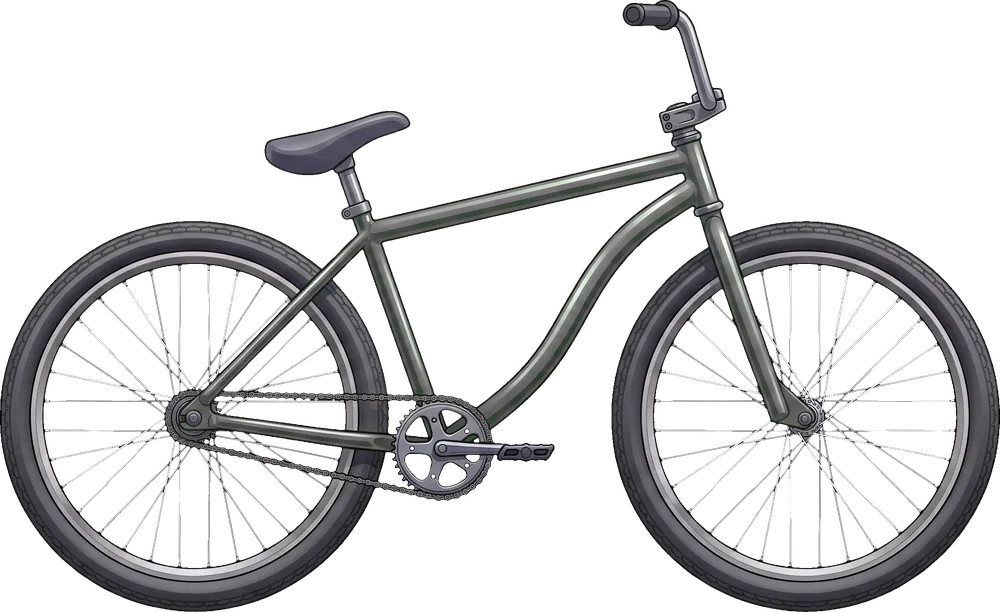
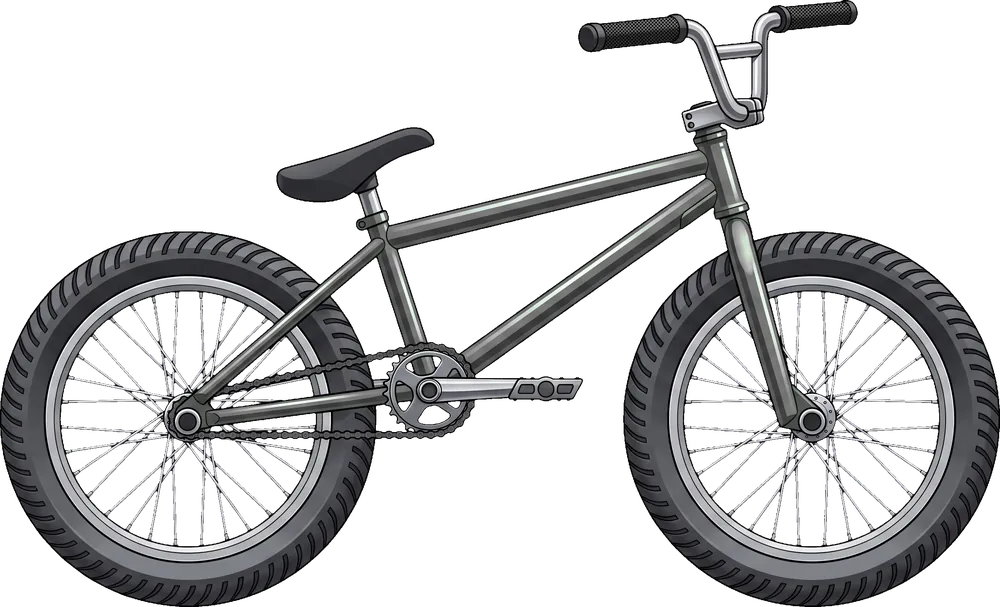
Publicacion automatica - version 20/08 14:08

diff --git a/index.html b/index.html
@@ -5,7 +5,7 @@
 <meta name="viewport" content="width=device-width, initial-scale=1.0, maximum-scale=1.0, user-scalable=no, viewport-fit=cover">
 <meta name="apple-mobile-web-app-capable" content="yes">
 <meta name="apple-mobile-web-app-status-bar-style" content="black-translucent">
-<meta name="apuntes-version" content="20/08 13:35">
+<meta name="apuntes-version" content="20/08 14:08">
 <link rel="manifest" href="manifest.json">
 <link rel="apple-touch-icon" href="icon-180.png">
 <meta name="theme-color" content="#f4ecd8">
@@ -1935,6 +1935,23 @@ body {
 .gar-mini.bloqueado { opacity: .5; }
 .gar-mini svg { width: 100%; height: 34px; }
 .gar-mini .t { display: block; font-size: 10px; font-weight: 700; margin-top: 3px; line-height: 1.15; }
+/* solapas de "Tu colección" */
+.col-solapas { display: flex; gap: 6px; margin: 6px 0 10px; }
+.col-solapa { flex: 1; padding: 9px 6px; border-radius: 11px; cursor: pointer;
+  border: 1.5px solid rgba(128,128,128,.3); background: rgba(255,255,255,.3);
+  font-family: inherit; color: inherit; font-size: 13px; font-weight: 700; }
+[data-theme="dark"] .col-solapa { background: rgba(255,255,255,.05); }
+.col-solapa.activa { border-color: #d4a017; background: rgba(212,160,23,.16); }
+/* franja de "Tu colección" en Actividades: aparte de las tarjetas de estudiar */
+.dash-coleccion { display: flex; align-items: center; gap: 10px; width: 100%;
+  margin: 14px 0 4px; padding: 12px 14px; border-radius: 14px; cursor: pointer;
+  font-family: inherit; color: inherit; text-align: left;
+  border: 1.5px solid rgba(212,160,23,.55); background: rgba(212,160,23,.12); }
+.dash-coleccion .ico { font-size: 24px; line-height: 0; display: flex; align-items: center; }
+.dash-coleccion .txt { flex: 1; }
+.dash-coleccion .name { display: block; font-size: 15px; font-weight: 800; }
+.dash-coleccion .sub { display: block; font-size: 12px; opacity: .72; }
+.dash-coleccion .monedas { font-size: 15px; font-weight: 800; white-space: nowrap; }
 .gar-vacio { text-align: center; padding: 30px 18px; }
 .gar-vacio .grande { font-size: 44px; }
 
@@ -2381,22 +2398,24 @@ body {
           <div class="name">Clasificar</div>
           <div class="sub">Cada cosa en su columna</div>
         </button>
-        <button class="dash-action" id="dashTienda">
-          <span class="ico">🛍</span>
-          <div class="name">Tienda</div>
-          <div class="sub" id="dashTiendaSub">Gastá tus monedas</div>
-        </button>
-        <button class="dash-action" id="dashGarage">
-          <span class="ico">🏁</span>
-          <div class="name">Tu garage</div>
-          <div class="sub" id="dashGarageSub">Mirá tus bicis en grande</div>
-        </button>
         <button class="dash-action" data-go="glossary">
           <span class="ico">📖</span>
           <div class="name">Glosario</div>
           <div class="sub" id="glossCount">— términos</div>
         </button>
       </div>
+
+      <!-- Lo ludico vive aparte de estudiar (20/08). Es una franja distinta, no
+           una tarjeta mas entre las de practicar, pero deja las monedas a la
+           vista: son el motivo por el que vale la pena seguir estudiando. -->
+      <button class="dash-coleccion" id="dashColeccion">
+        <span class="ico" id="dashColeccionIco">⭐</span>
+        <span class="txt">
+          <span class="name">Tu colección</span>
+          <span class="sub" id="dashColeccionSub">Avatar, tienda y garage</span>
+        </span>
+        <span class="monedas" id="dashColeccionMonedas">🪙 —</span>
+      </button>
 
       <div class="dash-section-title">🏆 Logros</div>
       <div class="badges-grid" id="badgesGrid"></div>
@@ -2708,7 +2727,7 @@ var AV_PIEZAS = {"accjin_a_gamer":{"x":190,"y":10,"w":84,"h":82},"accjin_a_inear
    <id>.png es el vehiculo con el cuadro en gris; <id>_m.png es la
    mascara del cuadro, que el navegador usa para pintarlo. */
 var AV_GARAGE_BASE = "imagenes/garage/";
-var AV_GARAGE = {"v_bmx":{"w":1000,"h":612},"v_carbono":{"w":1000,"h":581},"v_electrico":{"w":1000,"h":623},"v_mono":{"w":1000,"h":637},"v_mtb":{"w":1000,"h":599},"v_offroad":{"w":1000,"h":616},"v_playera":{"w":1000,"h":593}};
+var AV_GARAGE = {"v_bmx":{"w":1000,"h":607},"v_carbono":{"w":1000,"h":581},"v_electrico":{"w":1000,"h":623},"v_mono":{"w":1000,"h":637},"v_mtb":{"w":1000,"h":599},"v_offroad":{"w":1000,"h":616},"v_playera":{"w":1000,"h":593}};
 /*MAPAS-FIN*/
 </script>
 <script>
@@ -13750,21 +13769,23 @@ var AV_GARAGE = {"v_bmx":{"w":1000,"h":612},"v_carbono":{"w":1000,"h":581},"v_el
   // DASHBOARD
   // ============================================================
   function renderDashboard() {
-    // Tienda desde Actividades (saldo al día; listener una sola vez)
-    const dt = $("dashTienda");
-    if (dt) {
-      const sb = $("dashTiendaSub");
-      if (sb && typeof monedasSaldo === "function") sb.textContent = "🪙 " + monedasSaldo() + " monedas";
-      if (!dt.dataset.listo) {
-        dt.dataset.listo = "1";
-        dt.addEventListener("click", () => { if (typeof abrirTienda === "function") abrirTienda(); });
+    // "Tu colección" desde Actividades: una sola entrada a todo lo lúdico
+    // (avatar + tienda + garage), con el saldo al día. Antes eran dos tarjetas
+    // sueltas mezcladas con las de estudiar.
+    const dc = $("dashColeccion");
+    if (dc) {
+      const sm = $("dashColeccionMonedas");
+      if (sm && typeof monedasSaldo === "function") sm.textContent = "🪙 " + monedasSaldo();
+      // La puerta a lo suyo lleva su propia cara, no un emoji generico. El 🏆
+      // queda libre para "Logros", que esta justo debajo.
+      const si = $("dashColeccionIco");
+      if (si && typeof avatarCara === "function") {
+        try { si.innerHTML = avatarCara(32); } catch (e) {}
       }
-    }
-    // Garage desde Actividades (mismo patron que la tienda)
-    const dg = $("dashGarage");
-    if (dg && !dg.dataset.listo) {
-      dg.dataset.listo = "1";
-      dg.addEventListener("click", () => { if (typeof abrirGarage === "function") abrirGarage(); });
+      if (!dc.dataset.listo) {
+        dc.dataset.listo = "1";
+        dc.addEventListener("click", () => { if (typeof abrirTienda === "function") abrirTienda(); });
+      }
     }
     // Sugerencias dinámicas: practicar lo flojo / lo leído hoy
     const sug = $("dashSug");
@@ -15431,6 +15452,36 @@ function avatarIACara(px) {
     renderAvatarInicio();
   }
 
+  /* ---- "Tu colección": la casa de todo lo ludico (20/08) -----------------
+     La tienda y el garage siguen siendo dos overlays independientes (no se
+     reescribio nada); lo que se comparte es esta barra de solapas arriba, que
+     cierra uno y abre el otro. Cuando llegue el album de figuritas se agrega
+     una solapa mas y no hay que volver a tocar la navegacion.
+     El garage NO hereda el candado de los 5 minutos de estudio: mirar lo que
+     ya tenes no es gastar. El candado vive dentro de la solapa de la tienda. */
+  var COL_SOLAPAS = [["tienda", "🛍 Avatar y tienda"], ["garage", "🏁 Garage"]];
+  function barraColeccion(activa) {
+    var h = '<div class="tienda-top"><div class="tienda-titulo">🏆 Tu colección</div>' +
+            '<button class="tienda-cerrar" id="colCerrar">✕</button></div><div class="col-solapas">';
+    for (var i = 0; i < COL_SOLAPAS.length; i++)
+      h += '<button class="col-solapa' + (COL_SOLAPAS[i][0] === activa ? " activa" : "") +
+           '" data-solapa="' + COL_SOLAPAS[i][0] + '">' + COL_SOLAPAS[i][1] + '</button>';
+    return h + "</div>";
+  }
+  function listenersColeccion(cont, activa) {
+    document.getElementById("colCerrar").addEventListener("click", function () {
+      cerrarTienda(); cerrarGarage();
+    });
+    cont.querySelectorAll(".col-solapa").forEach(function (b) {
+      b.addEventListener("click", function () {
+        var d = b.dataset.solapa;
+        if (d === activa) return;
+        cerrarTienda(); cerrarGarage();
+        if (d === "garage") abrirGarage(); else abrirTienda();
+      });
+    });
+  }
+
   /* ================= TU GARAGE (20/08) ==================================
      Vitrina grande de los vehiculos. Nace con el dibujo SVG que ya existe
      porque asi funciona HOY sin depender de arte nuevo; en cuanto haya PNG
@@ -15517,15 +15568,14 @@ function avatarIACara(px) {
     var a = avatarData();
     var v = garVehiculos();
     var tengo = v.filter(function (x) { return a.comprados.indexOf(x.id) !== -1; });
-    var top = '<div class="tienda-top"><div class="tienda-titulo">🏁 Tu garage</div>' +
-              '<button class="tienda-cerrar" id="garCerrar">✕</button></div>';
+    var top = barraColeccion("garage");
 
     if (!tengo.length) {
       g.innerHTML = top + '<div class="gar-vacio"><div class="grande">🚲</div>' +
         '<p><strong>Todavía no tenés ningún vehículo.</strong></p>' +
         '<p>Comprá tu primera bici en la tienda y va a aparecer acá, en grande.</p>' +
         '<button class="gar-mini" id="garIrTienda" style="width:auto;padding:8px 16px">Ir a la tienda</button></div>';
-      document.getElementById("garCerrar").addEventListener("click", cerrarGarage);
+      listenersColeccion(g, "garage");
       var ir = document.getElementById("garIrTienda");
       if (ir) ir.addEventListener("click", function () { cerrarGarage(); abrirTienda(); });
       return;
@@ -15588,7 +15638,7 @@ function avatarIACara(px) {
   }
 
   function listenersGarage(g) {
-    document.getElementById("garCerrar").addEventListener("click", cerrarGarage);
+    listenersColeccion(g, "garage");
     document.getElementById("garIzq").addEventListener("click", function () { garIr(-1); });
     document.getElementById("garDer").addEventListener("click", function () { garIr(1); });
     g.querySelectorAll(".gar-tira .gar-mini").forEach(function (b) {
@@ -15670,8 +15720,7 @@ var ICONOS = {"r_basica": [0, 0], "r_buzo": [1, 0], "p_clasico": [2, 0], "p_rapa
     var ganadas = monedasGanadas();
     var saldo = monedasSaldo();
     var a = avatarData();
-    var top = '<div class="tienda-top"><div class="tienda-titulo">🛍 Tu avatar y la tienda</div>' +
-              '<button class="tienda-cerrar" id="tiendaCerrar">✕</button></div>';
+    var top = barraColeccion("tienda");
     /* identidad: SIEMPRE habilitada (apodo + género + probador) */
     var apodoAct = "";
     try { apodoAct = localStorage.getItem("apuntes_apodo") || ""; } catch (e) {}
@@ -15741,7 +15790,7 @@ var ICONOS = {"r_basica": [0, 0], "r_buzo": [1, 0], "p_clasico": [2, 0], "p_rapa
 
   /* listeners comunes: cerrar, género y guardado de apodo (siempre presentes) */
   function listenersTiendaBase(t) {
-    document.getElementById("tiendaCerrar").addEventListener("click", cerrarTienda);
+    listenersColeccion(t, "tienda");
     t.querySelectorAll(".tienda-gen button").forEach(function (btn) {
       btn.addEventListener("click", function () {
         var a2 = avatarData();
@@ -16279,7 +16328,7 @@ var ICONOS = {"r_basica": [0, 0], "r_buzo": [1, 0], "p_clasico": [2, 0], "p_rapa
 (function () {
   'use strict';
   var APUNTES_EVENTS_URL = "https://script.google.com/macros/s/AKfycbxEVmpEToGz7QSHqdpAckNEbtoh5-t1tuwNjavRi1rTCPq6WSfWOPxn9Qa0cOi8H8AB/exec";
-  var APUNTES_VERSION = "20/08 13:35";  /* sello de compilacion, inyectado por build_publico.py */
+  var APUNTES_VERSION = "20/08 14:08";  /* sello de compilacion, inyectado por build_publico.py */
 
   /* mostrar la version en el pie del selector */
   (function () {

diff --git a/sw.js b/sw.js
@@ -13,7 +13,7 @@
  *    el dibujo cambia el nombre o la version del cache. Asi una publicacion
  *    nueva no obliga a bajar de nuevo 268 KB de arte que no cambio.
  */
-var VERSION = '20/08 13:35';
+var VERSION = '20/08 14:08';
 var CACHE = 'apuntes-' + VERSION;
 
 var ESENCIALES = ['./', './index.html', './manifest.json',
